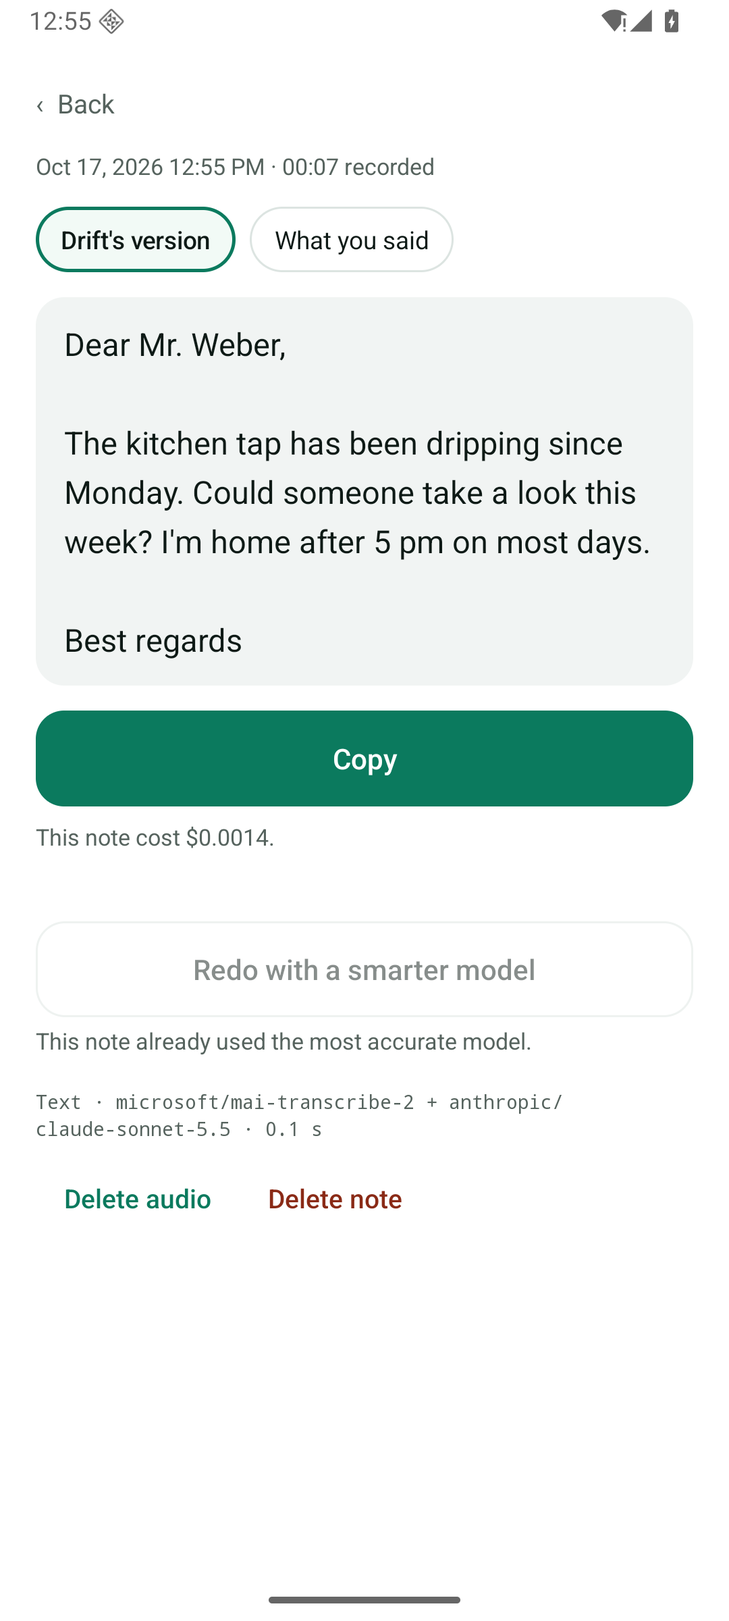
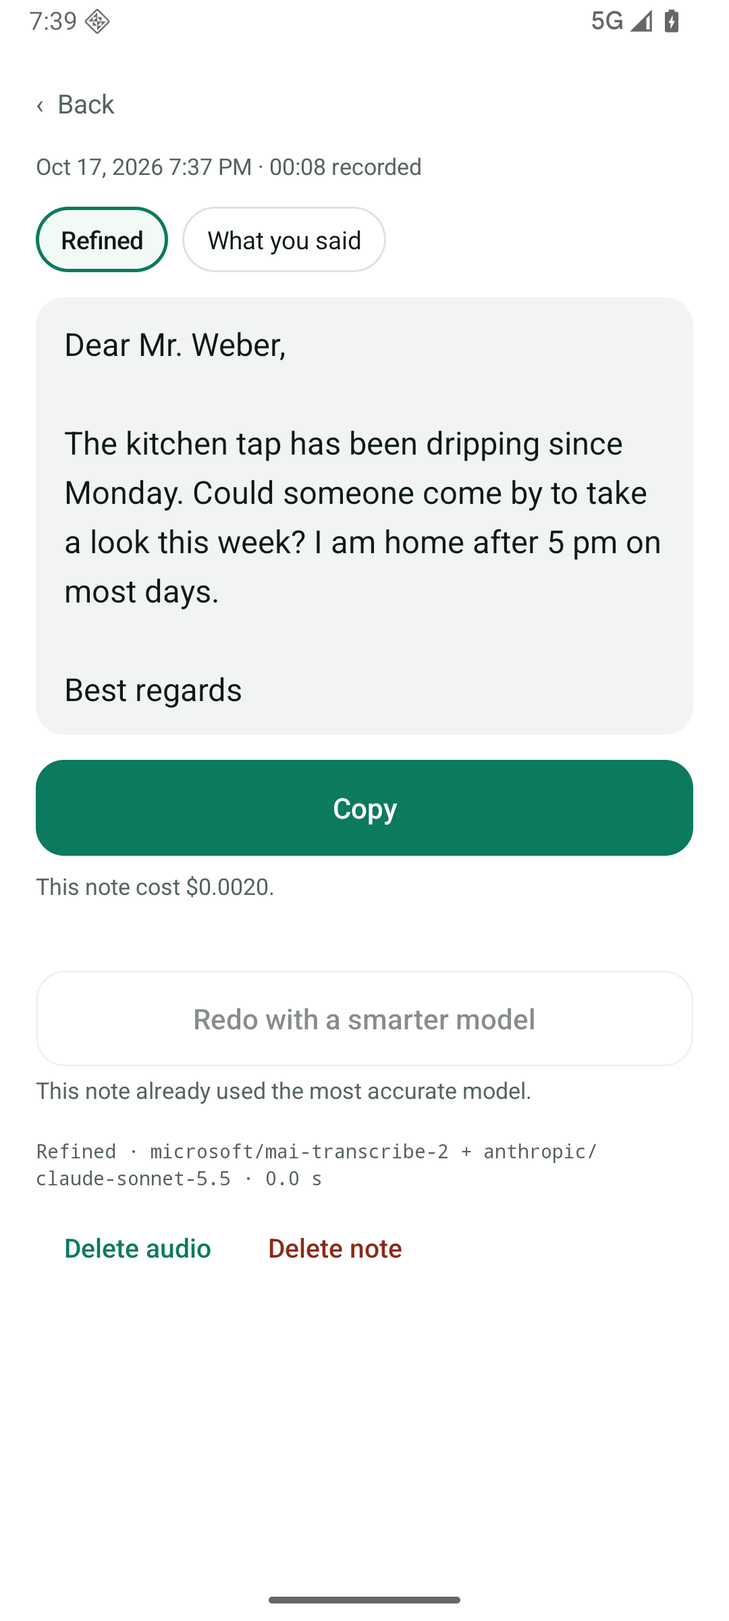
README for 3.0: why, what it does, how it works, setup, privacy
Leads with the purpose (talk instead of type anywhere, hand real tasks to
your own agent), then a feature table, the updated Mermaid diagrams,
setup, a privacy table of what goes to which provider, and open source.
Fresh emulator screenshots with sample data (panel recording, a refined
email inserted, text back from the chief, a refined note, home, the
chief's name). Release notes for 3.0.0 in docs/releases.

diff --git a/README.md b/README.md
@@ -1,66 +1,79 @@
 # Talk Router
 
-**Start anything by voice, from anywhere on your phone.** Tap the tile or hold a volume key, talk, stop. Your words come first, and a small floating panel lets you decide what happens with them:
+**Talk instead of type, anywhere on your phone, and hand real tasks to an agent on your own computer.**
 
-- **Insert** them where you're typing,
-- **✨ Refine** them into the text you need,
-- or hand them to your **🧑💼 chief**, an agent that takes care of it.
+Talk Router is an open-source Android app. Hold a volume key (or tap a Quick Settings tile) over any app, talk, stop. A small floating panel appears next to what you were doing, and you choose where your words go:
+
+- 📥 **Insert** them at the cursor, in whatever app you're typing in.
+- ✨ **Refine** them first: the message, email or reply you meant, then insert that.
+- 🧑💼 **Hand them to your chief of staff**, an agent running in [bb](https://getbb.app) on your computer, which does the work and pings you when it's done.
+
+No Talk Router account, no Talk Router server. Your own keys, MIT licensed.
 
 <p>
-  <img src="docs/images/note.png" width="30%" alt="A note written by the text model, with its cost">
-  <img src="docs/images/chief.png" width="30%" alt="A note handed to the chief of staff, with a link to its thread">
-  <img src="docs/images/connect-bb.png" width="30%" alt="Setup: connect bb to hand tasks to your agent">
+  <img src="docs/images/panel-recording.png" width="32%" alt="Recording over another app: the floating panel with timer, stop, Refine, cancel and attach">
+  <img src="docs/images/panel-refined.png" width="32%" alt="A rambling dictation became a short email to the landlord, inserted at the cursor">
+  <img src="docs/images/panel-chief.png" width="32%" alt="The panel after a task went to the chief of staff: the chief sent back text to insert">
 </p>
 
-## The idea
+## Why
 
-You already talk to agents all day: in chat apps, IDEs, terminals. Each has its own window and its own microphone button. Talk Router is the one place in front of all of them:
+Typing on a phone is slow, and most of what you type, you could just say. But built-in dictation writes down every "um" and gives up when you pause, and voice assistants only do what they were built for.
 
-- **It's always there.** A Quick Settings tile, or holding a volume key, starts it over any app. You keep reading, scrolling or switching apps while you talk; silence never ends a recording.
-- **You decide where your words go.** The floating panel offers Insert, Refine and Chief, even while you're still talking. A fast decision model starts Refine by itself when you ask for a text, and sends to your chief by itself only when you say it's for them, by name.
-- **It hands tasks off instead of doing them itself.** Real work happens in your agent ([bb](https://getbb.app), running on your own computer), where the thread is saved, visible and can continue later. Talk Router is only the entry point.
+Talk Router does three things:
 
-### Values
+- **It works everywhere.** Hold a volume key over any app and start talking. Keep scrolling, reading or switching apps while you talk; silence never cuts you off. Your words land where your cursor is.
+- **You say it once, and it comes out right.** A top speech model (MAI-Transcribe 2) writes down what you said, in whatever language you speak. Ask for "a short email", "more polite" or "my apartment application for this flat", and Claude turns your rambling into that text.
+- **It hands off real work.** "Ada, find three Italian places near the office and send me a short list." That goes to *your* agent, a bb thread on your own computer with your tools, files and accounts, not a chatbot in someone's cloud. It works as long as it needs, starts helper threads for bigger jobs, and sends you one notification when it's done, with a link to the thread. If you asked for text to paste, an **Insert from chief** button appears right on the panel.
 
-1. **Talk anywhere.** Start with your voice from any app.
-2. **Say it once, get it right.** The best speech and text models, so the text is right the first time.
-3. **One entry point.** Text right away, or handed to your agent.
-4. **Yours.** Open source, your own keys, no server in between.
+Talk Router is the entry point, not the agent. It doesn't try to do the work itself; it gets your words to the right place fast.
 
-## One start, three ways on
+## What it does
+
+| | |
+|---|---|
+| **Start anywhere** | Hold volume down or up (Accessibility), tap the Quick Settings tile, or use the button in the app. A short press still changes the volume. |
+| **Floating panel** | Appears over any app, never takes focus, and can be dragged anywhere. While you record: ■ stop, ✨ Refine, 🧑💼 Chief, ✕ cancel, 📎 attach. Tap ✨ or 🧑💼 while still talking, and it runs as soon as the transcript is ready. |
+| **📥 Insert** | Puts the text at the cursor of the app you're in. Talk Router never puts anything on your clipboard by itself; only if Insert can't reach a field does it copy instead, and the panel tells you. |
+| **✨ Refine** | One call to Claude Sonnet 5.5 works out what the text is for (message, email, note, reply), follows what you asked, fills in a template you named, and keeps your language and facts. **Insert refined** then replaces the raw transcript in place, if you haven't changed it. Runs through OpenRouter, or through Anthropic directly with your own Anthropic key. |
+| **Templates** | Texts you write again and again (an application, a standard reply). Say "use my apartment application for…" and Refine fills it in. |
+| **📎 Attach** | Talking about something, like a listing you're replying to? While you record, add what you copied, an image or a PDF. Refine reads it, and the chief gets it too. |
+| **🧑💼 Chief of staff** | Sends what you said, plus anything you attached with 📎 (copied text, images, PDFs), to a bb thread on your computer that acts for you: small things itself, bigger work in parallel child threads. It notifies you through [ntfy](https://ntfy.sh) when it's done or needs you. |
+| **Say its name** | Give your chief a name, say "Ada, …" or "this is for Ada", and the dictation goes there by itself. "Say hi to Ada" stays with you: a fast decision model (Jev) tells the two apart. |
+| **Text back** | When the chief writes something for you to paste, **Insert from chief** appears on the panel (or **Copy** on the notification). |
+| **Costs in view** | Every note shows what it cost, usually a fraction of a cent. Activity shows which model did what and how long it took. |
+| **Notes** | Every dictation is kept on the phone, encrypted: what you said and the refined version. Redo a note with a more accurate speech model. |
+
+Eight languages in the app: English, German, French, Spanish, Italian, Portuguese, Dutch, Polish. The speech model understands many more, and you can switch languages mid-sentence.
+
+<p>
+  <img src="docs/images/note.png" width="32%" alt="A note: the refined email, with Copy and its cost">
+  <img src="docs/images/home.png" width="32%" alt="Home: start dictating, this month's cost, recent notes">
+  <img src="docs/images/chief-name.png" width="32%" alt="Settings: your chief of staff and the name you call it by">
+</p>
+
+## How it works
+
+### One start, three ways on
 
 ```mermaid
 flowchart LR
-    rec["🎙 You talk<br/>(tile or hold a volume key)"] --> stt["Speech model<br/>MAI-Transcribe 2"]
-    stt --> panel["Floating panel<br/>✕ · Insert · ✨ Refine · 🧑💼 Chief"]
+    rec["🎙 You talk<br/>(volume key or tile, over any app)"] --> stt["Speech model<br/>MAI-Transcribe 2"]
+    stt --> panel["Floating panel<br/>✕ · 📥 Insert · ✨ Refine · 🧑💼 Chief"]
     stt --> jev{"Jev<br/>decision model"}
     jev -->|"'make this an email',<br/>'use my template…'"| x
     jev -->|"your chief's name, and<br/>it's meant for them"| c
-    panel -->|Insert| t["📝 Transcript<br/>at the cursor"]
+    panel -->|"📥 Insert"| t["📝 Transcript<br/>at the cursor"]
     panel -->|"✨ Refine"| x["✍ Refined text<br/>Claude Sonnet 5.5<br/>→ Insert refined"]
-    panel -->|"🧑💼 Chief"| c["🧑💼 Your chief<br/>a bb thread<br/>→ Open chat ↗"]
-    c -.->|"text to paste,<br/>via ntfy"| back["Insert from chief"]
+    panel -->|"🧑💼 Chief"| c["🧑💼 Your chief<br/>a bb thread on your computer<br/>→ Open chat ↗"]
+    c -.->|"text to paste,<br/>via ntfy"| back["📥 Insert from chief"]
 ```
 
-| Button | Does | Then turns into |
-|---|---|---|
-| **Insert** | Puts what you said at the cursor of the app you're in (through Android's Accessibility service). Without that permission, or without a text field, it's copied instead, and the panel says so. Otherwise Talk Router never touches your clipboard. | – |
-| **✨ Refine** | One call to Claude Sonnet 5.5 makes the text you need: works out what it's for (message, email, note, reply), follows what you asked, fills in a template you named, keeps your language and facts. | **Insert refined**. If the transcript you inserted is still unchanged in the field, it's replaced in place. |
-| **🧑💼 Chief** | Sends what you said, plus pasted text, to your chief-of-staff thread in bb. | **Open chat ↗**, which opens the thread. If the chief sends text back for you to paste, **Insert from chief** appears. |
-| **✕** | While recording: cancels, nothing is transcribed or sent. Afterwards: closes the panel; the note stays in Talk Router. | – |
+After the transcript, Jev (about 0.3 s and $0.00003) answers a few questions: did you ask for a text or name a template? Then Refine starts by itself. Did your chief's name come up, and is the dictation meant for them? Then it goes to the chief by itself, as you said it. If Jev isn't sure, 🧑💼 is only highlighted; if Jev fails, nothing happens by itself and the buttons still work.
 
-The buttons are icons (📥 Insert, ✨ Refine, 🧑💼 Chief, ✕), named for TalkBack; a long press shows the name. While you record, one compact row shows ■ with the timer, ✨, 🧑💼, ✕ and 📎; tap ✨ or 🧑💼 while still talking and it runs once the transcript is ready. Drag the panel anywhere; it remembers the spot.
+### Who talks to whom
 
-**What happens by itself.** After the transcript, Jev (TypeSafe's decision model, about 0.3 s and $0.00003) answers a few questions:
-- Do you ask for a text, or name a template ("turn this into an email", "use my apartment application…")? Then Refine starts by itself.
-- Your chief has a name you choose in Settings, for example "Ada". Only when that name comes up does Jev decide whether the dictation is meant for the chief ("Ada, …", "this is for Ada", "I want to talk to Ada about…") or just mentions them ("say hi to Ada"). If it's meant for the chief, it goes there by itself and isn't refined; if Jev isn't sure, 🧑💼 is only highlighted.
-- If Jev fails, nothing happens by itself; the buttons still work.
-
-Templates (texts you reuse) and 📎 context (something you copied, an image, a PDF) go along with Refine. For the chief, pasted text goes in the message, and images and PDFs go along as attachments it can open.
-
-## How it fits together
-
-There is no Talk Router server. The phone talks directly to three services, each with your own account:
+There is no Talk Router server. The phone talks directly to the services you set up, with your own accounts:
 
 ```mermaid
 flowchart TB
@@ -70,28 +83,34 @@ flowchart TB
         pwa["bb in the browser"]
     end
     subgraph cloud["Internet"]
-        or["OpenRouter<br/>speech & text models"]
+        or["OpenRouter<br/>speech, Jev, Refine"]
+        an["Anthropic (optional)<br/>Refine with your own key"]
         connect["bb Connect<br/>&lt;handle&gt;.getbb.app"]
         ntfy["ntfy.sh<br/>(or your own ntfy server)"]
     end
     subgraph mac["💻 Your computer"]
         mcp["bb's MCP server<br/>(bb--mcp plugin)"]
+        skills["Skills: chief-of-staff,<br/>talk-router"]
         chief["Chief-of-staff thread"]
         kids["Child threads"]
     end
     app -- "audio & text,<br/>your OpenRouter key" --> or
+    app -. "Refine text,<br/>your Anthropic key" .-> an
     app -- "MCP over HTTPS,<br/>your bb sign-in" --> connect --> mcp
+    mcp -- "installs, keeps up to date" --> skills
     mcp -- "bb thread tell" --> chief
+    skills -. "instructions" .-> chief
     chief -- "bb thread spawn" --> kids
-    chief -- "curl: summary + link" --> ntfy --> ntfyapp
+    chief -- "curl: summary + link,<br/>text to paste" --> ntfy --> ntfyapp
+    ntfy -- "text to paste" --> app
     ntfyapp -- "tap" --> pwa
 ```
 
-- **OpenRouter:** speech, Jev's decision and Refine (with your own Anthropic key, Refine goes to Anthropic directly instead, on your Anthropic credits, with OpenRouter as the fallback). You pay OpenRouter directly for what you use; every note shows what it cost, and Settings → Activity shows which model did what, how long it took and what it cost.
-- **bb:** an agentic IDE that runs coding agents (Claude Code, Codex, …) on your own computer. Talk Router uses bb's built-in MCP server and its `run` tool to create the chief-of-staff thread (`bb thread spawn`) and to send it your dictations (`bb thread tell`). The chief's instructions are two bb user skills Talk Router keeps up to date: **chief-of-staff** (how to work for you: small things itself, bigger work split into parallel child threads with context, intent and what done looks like) and **talk-router** (how to read dictations, notify you and send text back, with your ntfy topic and bb links filled in). The chief thread itself only gets one line: "You're my chief of staff. Use the chief-of-staff and talk-router skills."
-- **ntfy:** a simple notification service. The chief sends exactly one notification per request, with a summary it writes itself and a link to its thread. Text meant for you to paste goes as a second message tagged with the request's ID: while the panel is open, Talk Router reads your topic and shows **Insert from chief**; otherwise the notification's **Copy** button hands it to Talk Router. The topic is a long random name that only you know. Talk Router itself sends no notifications.
+- **OpenRouter** runs speech, Jev and Refine. You pay OpenRouter directly for what you use; a one-minute note usually costs well under a cent. With your own **Anthropic** key, Refine goes to Anthropic directly on your Anthropic credits, with OpenRouter as the fallback.
+- **bb** is an agentic IDE that runs coding agents (Claude Code, Codex, …) on your own computer. Talk Router uses bb's built-in MCP server to create the chief-of-staff thread and send it your dictations. The chief's instructions are two bb skills that Talk Router installs and keeps up to date by itself: **chief-of-staff** (how to work for you: small things itself, bigger work split into child threads with context, intent and what done looks like) and **talk-router** (how to read dictations, notify you and send text back).
+- **ntfy** carries the chief's notification (one per request, with a summary and a link to the thread) and text meant for you to paste. Your topic is a long random name only you know. Talk Router itself sends no notifications.
 
-### What happens when you hand off a task
+### Handing off a task
 
 ```mermaid
 sequenceDiagram
@@ -104,12 +123,12 @@ sequenceDiagram
     You->>TR: "Ada, find three Italian places near the office"
     TR->>OR: transcribe, then ask Jev (the name came up)
     OR-->>TR: meant for the chief: 0.98
-    TR->>BB: run: bb thread tell (what you said + pasted text + [request: k3x9qa])
+    TR->>BB: bb thread tell (what you said + attachments + [request: k3x9qa])
     BB->>CoS: new message
     TR-->>You: panel: "Open chat ↗"
     CoS->>CoS: works, maybe with child threads
     opt text for you to paste
-        CoS->>N: message tagged talkrouter-paste, req-k3x9qa
+        CoS->>N: message tagged req-k3x9qa
         N-->>TR: panel open: "Insert from chief"
     end
     CoS->>N: one notification: summary + link to the thread
@@ -121,7 +140,7 @@ If bb can't be reached, the note keeps what you said, says why, and offers **Sen
 
 ### Signing in to bb
 
-Talk Router reaches your bb through bb Connect (`https://<handle>.getbb.app/mcp`), with OAuth 2.1 and PKCE: no password or secret ever goes into the app. bb has no app registration; instead, an app's ID is the address of a small public JSON file describing it. Talk Router's lives on this repo's GitHub Pages ([client.json](https://philipp258.github.io/talk-router/oauth/client.json)).
+Talk Router reaches your bb through bb Connect (`https://<handle>.getbb.app/mcp`) with OAuth 2.1 and PKCE: no password or secret goes into the app. bb has no app registration; an app's ID is the address of a small public JSON file describing it. Talk Router's lives on this repo's GitHub Pages ([client.json](https://philipp258.github.io/talk-router/oauth/client.json)).
 
 ```mermaid
 sequenceDiagram
@@ -142,44 +161,52 @@ sequenceDiagram
     TR->>BB: MCP calls with the token, refreshed when it expires
 ```
 
-The redirect goes through a page on GitHub Pages because bb only accepts an `https` address next to the client file. The code is useless without the verifier, which never leaves the phone.
-
-Instead of bb Connect you can also enter any address of bb's MCP server yourself, e.g. one on your tailnet (Tailscale Serve), with an optional token.
+The redirect goes through a page on GitHub Pages because bb only accepts an `https` address next to the client file. The code is useless without the verifier, which never leaves the phone. Instead of bb Connect you can enter any address of bb's MCP server yourself, for example one on your tailnet, with an optional token.
 
 ## Setup
 
 **You need:**
-- An Android phone, Android 14 or newer.
-- An [OpenRouter](https://openrouter.ai) account with a key and a few dollars of credits. A one-minute note usually costs well under one cent.
-- For the agent route (optional): [bb](https://getbb.app) on your computer, signed in to your bb account with bb Connect on, plus the [ntfy](https://ntfy.sh) app on your phone (Google Play or F-Droid).
+- An Android phone with Android 14 or newer.
+- An [OpenRouter](https://openrouter.ai) account with a key and a few dollars of credits.
+- For the agent (optional): [bb](https://getbb.app) on your computer, signed in with bb Connect on, and the [ntfy](https://ntfy.sh) app on your phone (Google Play or F-Droid).
 
 **Steps:**
 1. **Install** the APK from the [latest release](https://github.com/Philipp258/talk-router/releases/latest), or build it yourself ([Build & test](docs/DEVELOPMENT.md)).
-2. **Open Talk Router.** Setup asks for your OpenRouter key and checks it, asks for the microphone, and sets up how you start (the tile, or holding a volume key) and the floating panel. Insert and the volume key need Android's Accessibility permission for Talk Router; setup explains what it's used for.
-3. **Connect bb** (or tap *Later*):
+2. **Open Talk Router.** Setup asks for your OpenRouter key and checks it, asks for the microphone, and sets up how you start (volume key or tile) and the floating panel. Insert and the volume key need Android's Accessibility permission; setup explains exactly what it's used for. Then you try it once in a practice field.
+3. **Connect bb** (or tap *Later*; without bb, Talk Router is a dictation app):
    1. On your computer, turn on bb's MCP server once: `bb plugin enable bb--mcp`.
-   2. In Talk Router, enter your bb Connect handle (the `<handle>` in `<handle>.getbb.app`) and tap **Sign in with bb**. Approve Talk Router on the bb page.
-4. **Chief of staff:** tap **Create**. Talk Router installs the chief's two skills in bb (through a short thread it archives afterwards), then starts a thread called "Chief of staff" in your Personal project that uses them. You can also pick an existing thread.
-5. **Notifications:** tap **Open in ntfy** to subscribe to your topic in the ntfy app, then **Send test**.
-6. **Name your chief** in Settings → Chief of staff, for example "Ada".
+   2. In Talk Router, enter your bb Connect handle (the `<handle>` in `<handle>.getbb.app`), tap **Sign in with bb** and approve Talk Router on the bb page.
+4. **Chief of staff:** tap **Create**. Talk Router installs the two skills in bb, then starts a "Chief of staff" thread that uses them. You can also pick a thread you already have.
+5. **Notifications:** tap **Open in ntfy** to subscribe to your topic, then **Send test**.
+6. **Name your chief** in Settings, for example "Ada".
 7. **Try it:** "Ada, find three Italian places near the office and send me a short list."
 
-Everything can be changed later in Settings: the key, how you start, the speech model, Refine, words Talk Router should know, templates, bb and notifications.
+Everything can be changed later in Settings. Optional: your own Anthropic key for Refine, templates, words Talk Router should know, and a different speech model. More in [Using the app](docs/GUIDE.md).
 
 ## Privacy
 
-- Notes and audio stay on the phone, encrypted. There's no Talk Router account and no server.
-- When you dictate, audio and text go to OpenRouter and the model providers it uses (speech, Jev, and Claude when you Refine). With your Anthropic key set, Refine's text goes to Anthropic instead. When you hand off a task, what you said (and text you pasted) goes to your bb.
-- Your chief's notifications pass through ntfy.sh (or your own ntfy server) under your random topic.
-- Accessibility is used only for Insert and the volume key: Talk Router asks for no accessibility events and looks up the text field you're typing in only when you tap Insert. No screen reading.
+Talk Router has no server, no account, no analytics and no crash reporting. What leaves your phone goes straight to the provider you chose:
+
+| What | Goes to | When |
+|---|---|---|
+| Audio | OpenRouter and the speech model's provider | After you stop recording |
+| Transcript, your template names, your chief's name if it came up | OpenRouter → Jev (TypeSafe) | After every transcript |
+| Transcript, About you, your words, the template you asked for, attachments | OpenRouter → Anthropic (Claude), or Anthropic directly with your key | Only when Refine runs |
+| What you said, pasted text, attached images and PDFs | Your bb, through bb Connect or your own address | Only when it goes to your chief |
+| The chief's notifications and text to paste | ntfy.sh (or your own server), under your random topic | When the chief sends them, from your computer |
+
+- **On the phone:** notes, templates and keys are encrypted; audio is kept 7 days for redos (you can turn that off). Backups and device transfer are excluded.
+- **Accessibility** is used only for Insert and the volume key. Talk Router asks for no accessibility events and never reads the screen; it looks up the text field you're typing in only when you tap Insert.
+- **Clipboard:** written only when you tap Copy, or when Insert can't reach a field. Never by itself.
+- **Your agent** runs on your computer, with the model providers you chose in bb.
 
 Details: [Privacy & storage](docs/PRIVACY.md).
 
-## More
+## Open source
 
-[Using the app](docs/GUIDE.md) · [Build & test](docs/DEVELOPMENT.md) · Plans and decisions: [agents through bb](docs/plans/bb-bridge.md), [the floating panel](docs/plans/floating-panel.md)
+Talk Router is MIT licensed, and the whole app is in this repo: plain Java, no third-party runtime libraries, no analytics SDKs. Build it yourself, read what it sends, or change it. Issues and pull requests are welcome.
 
-Eight languages: English, German, French, Spanish, Italian, Portuguese, Dutch, Polish.
+[Using the app](docs/GUIDE.md) · [Build & test](docs/DEVELOPMENT.md) · [Privacy & storage](docs/PRIVACY.md) · [Release notes](docs/releases/3.0.0.md) · Design notes: [agents through bb](docs/plans/bb-bridge.md), [the floating panel](docs/plans/floating-panel.md)
 
 ## License
 

diff --git a/docs/releases/3.0.0.md b/docs/releases/3.0.0.md
@@ -1,0 +1,23 @@
+# Talk Router 3.0.0
+
+Talk over any app, put your words where you're typing, and hand real tasks to an agent on your own computer. In 2.1, Talk Router guessed what you wanted and put the result on your clipboard. In 3.0 your words come first and you decide, right where you are.
+
+## New
+
+- **Floating panel over any app.** After you talk, a small panel offers 📥 Insert, ✨ Refine and 🧑💼 Chief next to what you were doing. It never takes focus and stays where you drag it. Tap ✨ or 🧑💼 while still talking and it runs once the transcript is ready; ✕ throws a recording away at no cost.
+- **Insert at the cursor.** Your words go straight into the text field you're in, through Android's Accessibility service.
+- **Start with a volume key.** Hold volume down or up over any app to start and stop. A short press still changes the volume.
+- **✨ Refine** replaces the text route: Claude Sonnet 5.5 turns what you said into the text you meant (message, email, reply, a template you named), and **Insert refined** swaps it in for the raw transcript. Ask for a text or name a template, and Refine starts by itself.
+- **Refine with your own Anthropic key**, on your Anthropic credits, with OpenRouter as the fallback.
+- **Call your chief by name.** Give your chief of staff a name and say "Ada, …": the dictation goes to your bb thread by itself, as you said it. Jev, a fast decision model, tells "Ada, book a table" apart from "say hi to Ada". Or just tap 🧑💼.
+- **Text back from the chief.** When the chief writes something for you to paste, **Insert from chief** appears on the panel, or **Copy** on its notification.
+- **Images and PDFs reach the chief.** What you attach with 📎 now goes along as attachments the chief can open, not only pasted text.
+- **Skills installed for you.** The chief's instructions are now two bb skills, chief-of-staff and talk-router, that Talk Router installs in bb and keeps up to date by itself. The chief thread only needs one line.
+
+## Changed
+
+- **Your clipboard stays yours.** Talk Router no longer copies every dictation. It writes the clipboard only when you tap Copy, or when Insert can't reach a field (and says so).
+- The floating button became the panel; the request check became Jev, which only starts things you'd clearly want.
+- Activity shows each step of a note (speech, Jev, Refine, the hand-off to bb) with time and cost.
+
+Still no Talk Router server or account: the phone talks to OpenRouter, Anthropic (optional), your bb and ntfy, with your own keys. Requires Android 14 or newer and an OpenRouter key. Updates install over 2.x.
